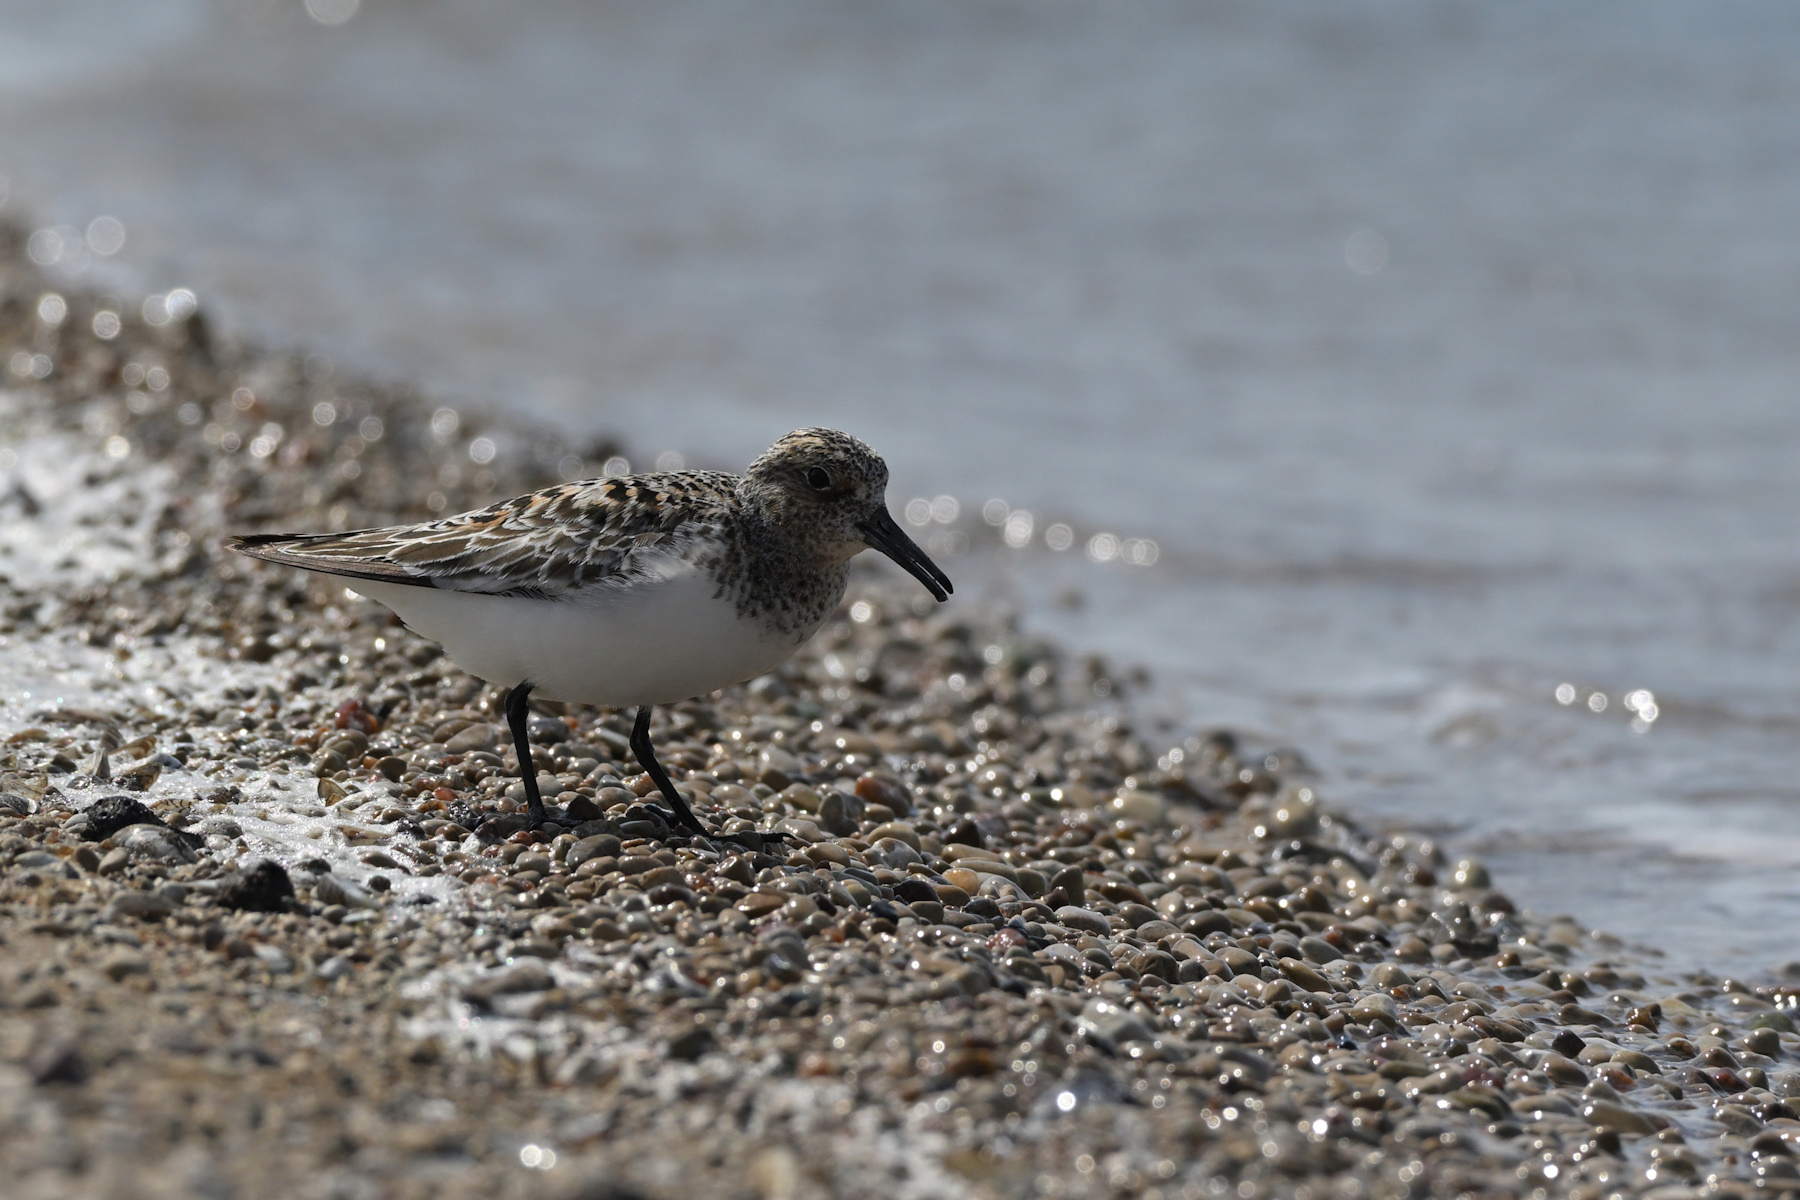
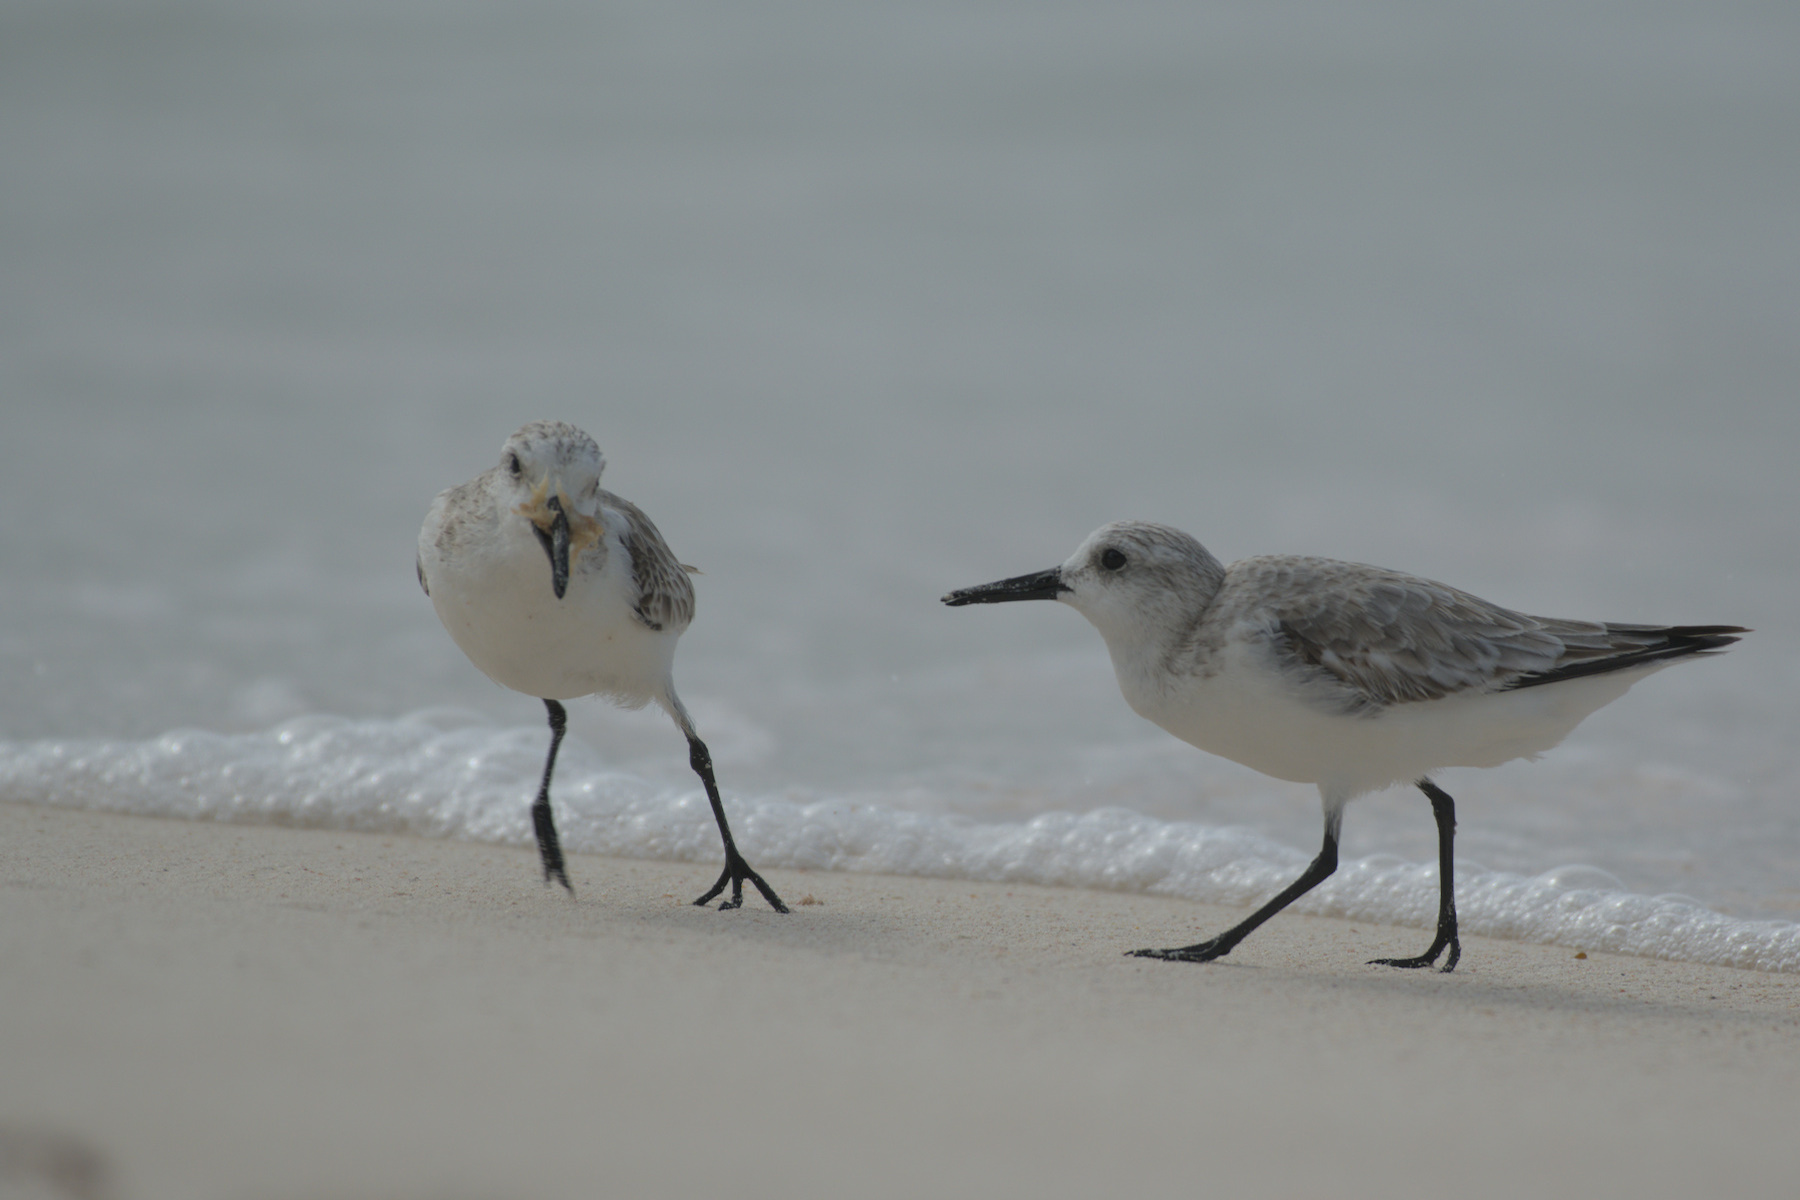
Added tropical birds and removed tropical other.

diff --git a/photo/birds.html b/photo/birds.html
@@ -23,23 +23,32 @@
 		
 		const photos = [
 				"anasplatyrhynchos",
-				"buteoswainsoni","haliaeetusleucocephalus",
-				"ardeaherodias",
+				"buteoplatypterus","buteoswainsoni","haliaeetusleucocephalus",
+				"eulampisholosericeus","eulampisjugularis","orthorhyncuscristatus",
+				"ardeaherodias","ardeaibis","butoridesvirescens","pelecanusoccidentalis",
 				"arenariainterpres","calidrisalba",
 				"chroicocephalusphiladelphia","larusdelawarensis","sternahirundo",
 				"bartramialongicauda","limnodromusscolopaceus","phalaropustricolor",
-				"columbalivia",
-				"ralluslimicola",
+				"columbalivia","columbinapasserina","patagioenassquamosa","streptopeliadecaocto","zenaidaauriculata","zenaidaaurita",
+				"crotophagaani",
+				"gallinulagaleata","ralluslimicola",
 				"eremophilaalpestris",
 				"bombycillacedrorum",
 				"passerinacyanea",
+				"alleniafusca","margaropsfuscatus","myadestesgenibarbis",
+				"setophagaplumbea",
+				"coerebaflaveola","loxigillabarbadensis","loxigillanoctis","melanospizabicolor","saltatoralbicollis",
+				"sicalisluteola",
 				"corvusbrachyrhynchos","corvuscorax","cyanocittacristata",
 				"acanthisflammea","coccothraustesvespertinus","haemorhousmexicanus","pinicolaenucleator","spinustristis",
 				"cinclusmexicanus",
 				"hirundorustica","prognesubis","tachycinetabicolor",
-				"agelaiusphoeniceus","euphaguscyanocephalus","sturnellaneglecta",
+				"agelaiusphoeniceus","euphaguscyanocephalus","molothrusbonariensis","sturnellaneglecta","quiscaluslugubris",
+				"myiarchusoberi","tyrannusdominicensis",
 				"asioflammeus", "athenecunicularia","bubovirginianus","strixnebulosa",
-				"lagopusleucura","tympanuchusphasianellus"
+				"lagopusleucura","tympanuchusphasianellus",
+				"amazonaarausiaca",
+				"sulaleucogaster"
 			];
 
 		window.addEventListener("load", function() {